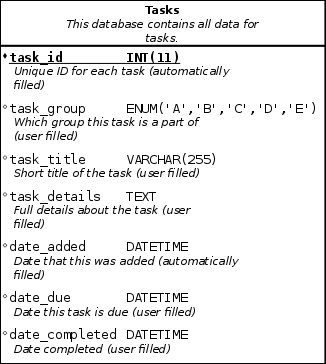
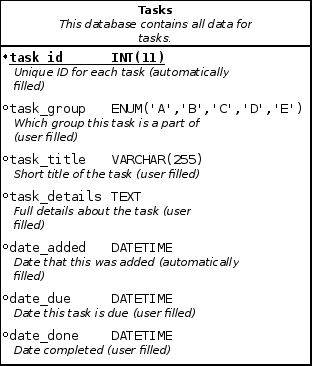
Added .gitignore to ignore of node_modules dir

diff --git a/docs/README.md b/docs/README.md
@@ -1,6 +1,6 @@
 # Project documentation should go in this folder.
 
-## Database Documentation
+## Database Documents
 
 * tasks_db.dia - Dia database diagram
 * tasks_db.png - PNG output of the Dia diagram
@@ -13,10 +13,26 @@ Tasks contain seven data elements, some will be automatically generated and othe
 
 | Field Name | Data Type | Generated By | Description |
 | --- | --- | --- | --- |
-| task_id        |  int(11) AUTO_INCREMENT,   | Automatic | Unique field for tasks, this is hidden from the user but used to key all EDIT/UPDATE/DELETE operations. |
+| task_id        |  int(11) AUTO_INCREMENT    | Automatic  | Unique field for tasks, this is hidden from the user but used to key all CREATE/READ/UPDATE/DELETE (CRUD) operations. |
 | task_group     |  enum('A','B','C','D','E') | User Input | Task group that this task is a part of. Only possible values are ABCDE |
-| task_title     |  varchar(255)              | User Input | The short description of this task, < 255 characters |
-| task_details   |  text,                     | User Input | Long description of this task, <= 65535 characters |
+| task_title     |  varchar(255)              | User Input | The short description of this task: <= 255 characters |
+| task_details   |  text                      | User Input | Long description of this task: <= 65535 characters |
 | date_added     |  datetime                  | Automatic  | Format: 'YYYY-MM-DD HH:MM:SS' |
 | date_due       |  datetime                  | User Input | Format: 'YYYY-MM-DD HH:MM:SS' |
-| date_completed |  datetime                  | Automatic  | Format: 'YYYY-MM-DD HH:MM:SS' |
+| date_done      |  datetime                  | Automatic  | Format: 'YYYY-MM-DD HH:MM:SS' |
+
+
+### Database Interface
+
+Database Interfaces accept and return a Task object or a collection of Task objects. This Task object will be defined in javascript and instantiated for task in the visible page.
+
+
+function Task(task_id, task_group, task_title, task_details, date_added, date_due, date_done) {
+  this.task_id = task_id;
+  this.task_group = task_group;
+  this.task_title = task_title;
+  this.task_details = task_details;
+  this.date_added = date_added;
+  this.date_due = date_due;
+  this.date_done = date_done;
+}
